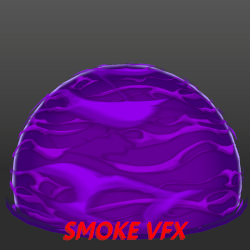
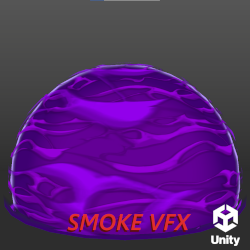
Subido BT

diff --git a/portfolio_en.html b/portfolio_en.html
@@ -133,19 +133,24 @@
             data-footer-text="Final proyect for the subject of Artificial Inteligence in Videogames. Life simulation Sims style with behavior trees and SmartObjects in Unity." data-link="https://github.com/miguelNPB/IAV25-PerezBallester">
         </div>
         <div class="col-4 col-md-2">
+            <img src="assets/autorig.png" class="img-fluid" proyect-type="programacion artistatecnico" data-bs-toggle="modal" data-bs-target="#modalVideo" style="cursor: pointer"
+            data-video="https://www.youtube.com/embed/FuGVa-GouYQ?si=4utwQJxJaL9PNfa4" data-title-text="Blender python autrrigger" 
+            data-footer-text="Proyecto for learning to make tools in blender with python. Simple autorriger with IK in legs and arms and support for rettargetting for Mixamo animations with Rokoko." data-link="https://github.com/miguelNPB/blender-python-autorriger">
+        </div>
+        <div class="col-4 col-md-2">
             <img src="assets/omensmokethumbnail_portfolio.png" class="img-fluid" proyect-type="artistatecnico" data-bs-toggle="modal" data-bs-target="#modalVideo" style="cursor: pointer"
             data-video="https://www.youtube.com/embed/mU8yEeaIW4E?si=fxmtejRcTWiW0XQN" data-title-text="Valorant style smoke" 
             data-footer-text="Valorant style smoke. Made with VFX Graph and ShaderGraph." data-link="https://miguelnpb.artstation.com/projects/QK6K8Z">
         </div>
         <div class="col-4 col-md-2">
-            <img src="assets/ICEATTACKPORTFOLIO.png" class="img-fluid" proyect-type="artistatecnico" data-bs-toggle="modal" data-bs-target="#modalVideo" style="cursor: pointer"
-            data-video="https://www.youtube.com/embed/uItmy5MB-DQ?si=b9eH-P0rRzIUwu-d" data-title-text="Ataque de hielo Unreal" 
-            data-footer-text="Efecto de ataque de hielo, hecho en Unreal Engine 5." data-link="https://miguelnpb.artstation.com/">
+            <img src="assets/bt_thumbnail.png" class="img-fluid" proyect-type="artistatecnico" data-bs-toggle="modal" data-bs-target="#modalVideo" style="cursor: pointer"
+            data-video="https://www.youtube.com/embed/M3vPOIkie3I?si=qqFTl7jyYoWIN2Bo" data-title-text="Death Stranding BT vfx" 
+            data-footer-text="VFX of BT from Death Stranding, made in Unreal Engine 5." data-link="https://miguelnpb.artstation.com/">
         </div>
         <div class="col-4 col-md-2">
-            <img src="assets/autorig.png" class="img-fluid" proyect-type="programacion artistatecnico" data-bs-toggle="modal" data-bs-target="#modalVideo" style="cursor: pointer"
-            data-video="https://www.youtube.com/embed/FuGVa-GouYQ?si=4utwQJxJaL9PNfa4" data-title-text="Blender python autrrigger" 
-            data-footer-text="Proyecto for learning to make tools in blender with python. Simple autorriger with IK in legs and arms and support for rettargetting for Mixamo animations with Rokoko." data-link="https://github.com/miguelNPB/blender-python-autorriger">
+            <img src="assets/ICEATTACKPORTFOLIO.png" class="img-fluid" proyect-type="artistatecnico" data-bs-toggle="modal" data-bs-target="#modalVideo" style="cursor: pointer"
+            data-video="https://www.youtube.com/embed/uItmy5MB-DQ?si=b9eH-P0rRzIUwu-d" data-title-text="Ice Attack" 
+            data-footer-text="Ice attack effect, made in Unreal Engine 5." data-link="https://miguelnpb.artstation.com/">
         </div>
         <div class="col-4 col-md-2">
             <img src="assets/HeartBeat.png" class="img-fluid" data-bs-toggle="modal" proyect-type="programacion" data-bs-target="#modalVideo" style="cursor: pointer"

diff --git a/portfolio_es.html b/portfolio_es.html
@@ -135,19 +135,24 @@
             data-footer-text="Proyecto final para la asignatura de Inteligencia Artificial en Videojuegos. Simulación de vida estilo Sims usando behavior trees y SmartObjects en Unity." data-link="https://github.com/miguelNPB/IAV25-PerezBallester">
         </div>
         <div class="col-4 col-md-2">
+            <img src="assets/autorig.png" class="img-fluid" proyect-type="programacion artistatecnico" data-bs-toggle="modal" data-bs-target="#modalVideo" style="cursor: pointer"
+            data-video="https://www.youtube.com/embed/FuGVa-GouYQ?si=4utwQJxJaL9PNfa4" data-title-text="Blender python autrrigger" 
+            data-footer-text="Proyecto para aprendizaje sobre creación de herramientas con python en blender. Autorriger simple con IK de manos y piernas, que permite retargetting de animaciones de Mixamo con Rokoko." data-link="https://github.com/miguelNPB/blender-python-autorriger">
+        </div>
+        <div class="col-4 col-md-2">
             <img src="assets/omensmokethumbnail_portfolio.png" class="img-fluid" proyect-type="artistatecnico" data-bs-toggle="modal" data-bs-target="#modalVideo" style="cursor: pointer"
             data-video="https://www.youtube.com/embed/mU8yEeaIW4E?si=fxmtejRcTWiW0XQN" data-title-text="Valorant style smoke" 
             data-footer-text="Efecto de humo estilo valorant. Hecho en Unity con VFX Graph y ShaderGraph." data-link="https://miguelnpb.artstation.com/">
         </div>
         <div class="col-4 col-md-2">
+            <img src="assets/bt_thumbnail.png" class="img-fluid" proyect-type="artistatecnico" data-bs-toggle="modal" data-bs-target="#modalVideo" style="cursor: pointer"
+            data-video="https://www.youtube.com/embed/M3vPOIkie3I?si=qqFTl7jyYoWIN2Bo" data-title-text="Efecto BT en Death Stranding" 
+            data-footer-text="Efecto de los BT de Death Stranding, hecho en Unreal Engine 5." data-link="https://miguelnpb.artstation.com/">
+        </div>
+        <div class="col-4 col-md-2">
             <img src="assets/ICEATTACKPORTFOLIO.png" class="img-fluid" proyect-type="artistatecnico" data-bs-toggle="modal" data-bs-target="#modalVideo" style="cursor: pointer"
             data-video="https://www.youtube.com/embed/uItmy5MB-DQ?si=b9eH-P0rRzIUwu-d" data-title-text="Ataque de hielo Unreal" 
             data-footer-text="Efecto de ataque de hielo, hecho en Unreal Engine 5." data-link="https://miguelnpb.artstation.com/">
-        </div>
-        <div class="col-4 col-md-2">
-            <img src="assets/autorig.png" class="img-fluid" proyect-type="programacion artistatecnico" data-bs-toggle="modal" data-bs-target="#modalVideo" style="cursor: pointer"
-            data-video="https://www.youtube.com/embed/FuGVa-GouYQ?si=4utwQJxJaL9PNfa4" data-title-text="Blender python autrrigger" 
-            data-footer-text="Proyecto para aprendizaje sobre creación de herramientas con python en blender. Autorriger simple con IK de manos y piernas, que permite retargetting de animaciones de Mixamo con Rokoko." data-link="https://github.com/miguelNPB/blender-python-autorriger">
         </div>
           <div class="col-4 col-md-2">
             <img src="assets/HeartBeat.png" class="img-fluid" proyect-type="programacion" data-bs-toggle="modal" data-bs-target="#modalVideo" style="cursor: pointer"
